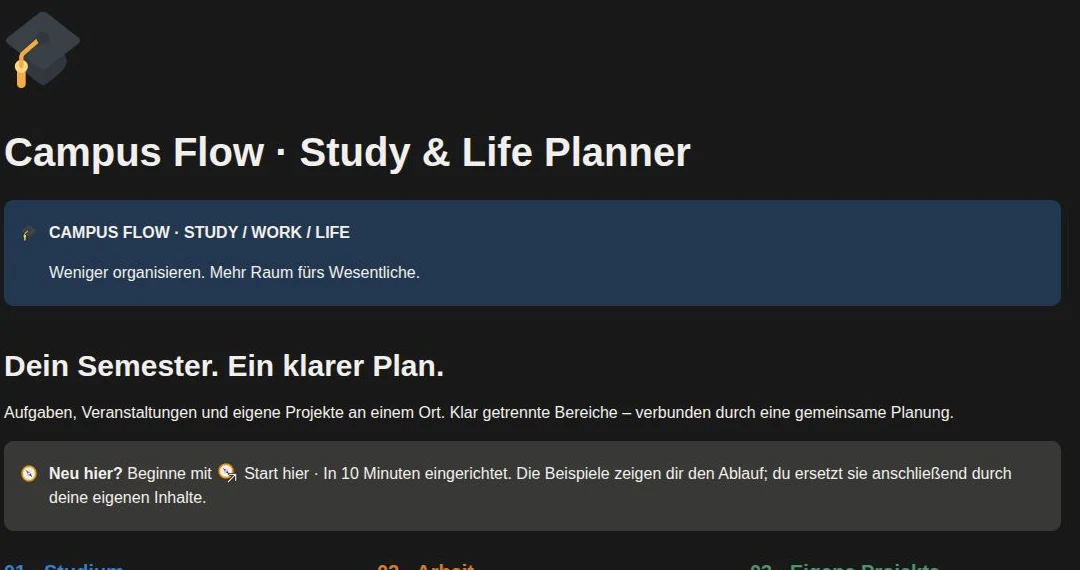
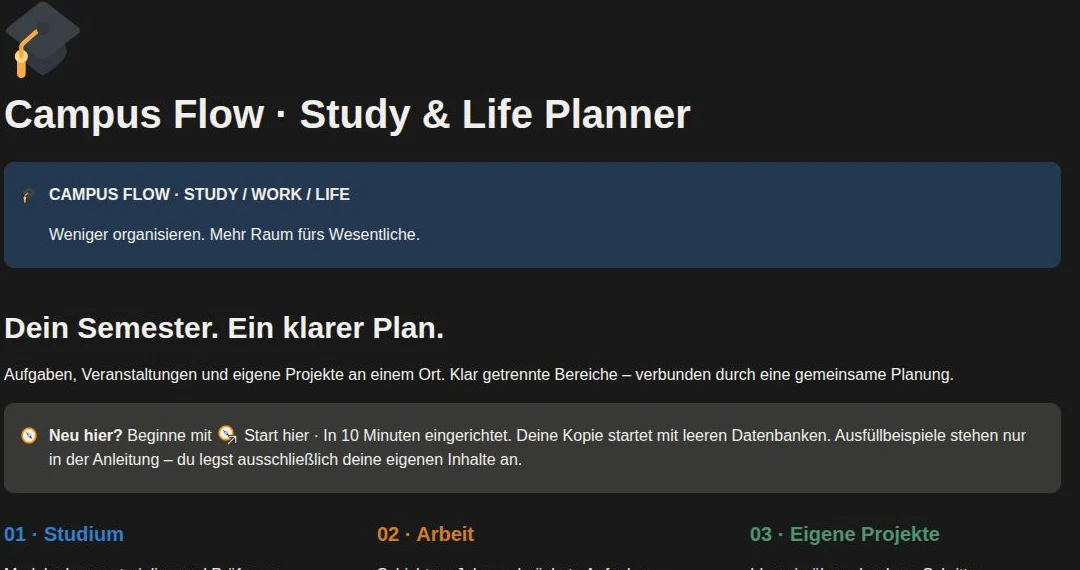
Start Campus Flow with empty databases and guided examples

diff --git a/campus-flow.html b/campus-flow.html
@@ -49,11 +49,11 @@
             <h1>Dein Semester.<br><em>Wieder im Blick.</em></h1>
             <p class="campus-intro">Module, Aufgaben, Termine und eigene Projekte. Ein klarer Ort für alles, was in deinem Studienalltag zusammenkommt.</p>
             <div class="hero-cta"><a href="#loslegen" class="btn btn-primary">Kostenlos starten <span class="arrow">↓</span></a><a href="#geschichte" class="btn btn-ghost">Die Geschichte dahinter ↓</a></div>
-            <p class="campus-fine">Deutsch · Für deinen Notion-Workspace · Mit Beispielen &amp; Startguide</p>
+            <p class="campus-fine">Deutsch · Für deinen Notion-Workspace · Leerer Start · Mit Ausfüllhilfe</p>
           </div>
           <div class="campus-hero-visual">
             <div class="campus-stamp" aria-hidden="true"><span>CF</span><small>Ein klarer<br>nächster Schritt.</small></div>
-            <figure class="campus-window"><div class="campus-window-bar"><span aria-hidden="true">● ● ●</span><span>Campus Flow / Notion</span></div><img src="img/products/campus-flow/dashboard.webp" width="1080" height="570" alt="Originalansicht der Campus-Flow-Startseite mit Einführung und Bereichen für Studium, Arbeit und Projekte" fetchpriority="high" decoding="async"><figcaption>Dein Ausgangspunkt · Originalansicht der bereinigten Demo</figcaption></figure>
+            <figure class="campus-window"><div class="campus-window-bar"><span aria-hidden="true">● ● ●</span><span>Campus Flow / Notion</span></div><img src="img/products/campus-flow/dashboard.webp" width="1080" height="570" alt="Originalansicht der Campus-Flow-Startseite mit Einführung und Bereichen für Studium, Arbeit und Projekte" fetchpriority="high" decoding="async"><figcaption>Dein Ausgangspunkt · Leere Vorlage mit Anleitung</figcaption></figure>
             <div class="campus-float-note" aria-hidden="true"><span class="campus-check">✓</span><span>Weniger suchen.<br><strong>Einfach anfangen.</strong></span></div>
           </div>
         </div>
@@ -77,7 +77,7 @@
             <div class="campus-flow-final"><div class="campus-final-brand"><span>CF</span><div><strong>Campus Flow</strong><small>Dein Semester. Ein klarer Plan.</small></div></div><img src="img/products/campus-flow/tasks.webp" width="1080" height="490" alt="" loading="lazy" decoding="async"><div class="campus-final-bottom"><span>Studium</span><span>Arbeit</span><span>Eigene Projekte</span></div></div>
             <div class="campus-board-footer"><span class="campus-board-status">Lose Enden</span><span>Eine Idee nimmt Form an.</span></div>
           </div>
-          <p class="campus-visual-note">Scroll-Illustration mit typischen Planungssituationen.</p>
+          <p class="campus-visual-note">Scroll-Illustration mit fiktiven Beispielen. Deine Kopie startet leer.</p>
         </div>
         <div class="campus-chapters">
           <article class="campus-chapter" id="anfang" data-chapter="0"><p class="campus-chapter-number">01 / Der Anfang</p><h3>Zu viele<br><em>lose Enden.</em></h3><p>Vorlesungsnotizen hier. Eine Abgabe dort. Dazwischen Arbeit und eigene Ideen. Im Kopf blieb immer noch eine Liste offen.</p><p>Ich wollte auf einen Blick sehen, was als Nächstes zählt.</p><span class="campus-chapter-thought">Was brauche ich heute wirklich?</span></article>
@@ -99,21 +99,22 @@
     </div></section>
 
     <section class="section campus-preview-section" id="einblicke" aria-labelledby="preview-title"><div class="container">
-      <div class="campus-section-intro"><p class="section-tag">Einblicke in Campus Flow</p><h2 id="preview-title">So sieht<br><em>der Überblick aus.</em></h2><p>Originalansichten aus der bereinigten Demo. Alle gezeigten Inhalte sind fiktive Beispiele.</p></div>
+      <div class="campus-section-intro"><p class="section-tag">Einblicke in Campus Flow</p><h2 id="preview-title">So sieht<br><em>der Überblick aus.</em></h2><p>Die Startseite zeigt die leere Vorlage. Die ausgefüllten Aufgaben und Module zeigen, wie dein System später aussehen kann – mit fiktiven Beispielen. Deine Kopie startet ohne Einträge.</p></div>
       <div class="campus-preview-tabs" role="tablist" aria-label="Template-Vorschau" hidden><button type="button" role="tab" id="preview-tab-dashboard" aria-controls="preview-dashboard" aria-selected="true" tabindex="0">Startseite</button><button type="button" role="tab" id="preview-tab-tasks" aria-controls="preview-tasks" aria-selected="false" tabindex="-1">Aufgaben</button><button type="button" role="tab" id="preview-tab-modules" aria-controls="preview-modules" aria-selected="false" tabindex="-1">Module</button></div>
       <figure class="campus-preview-panel" id="preview-dashboard" role="tabpanel" aria-labelledby="preview-tab-dashboard" tabindex="0"><img src="img/products/campus-flow/dashboard.webp" width="1080" height="570" alt="Campus-Flow-Startseite mit Einführung und Navigation für Studium, Arbeit und eigene Projekte" loading="lazy" decoding="async"><figcaption><span>01 / Dein Ausgangspunkt</span><a href="img/products/campus-flow/dashboard.webp" target="_blank" rel="noopener">Bild vergrößern ↗</a></figcaption></figure>
-      <figure class="campus-preview-panel" id="preview-tasks" role="tabpanel" aria-labelledby="preview-tab-tasks" tabindex="0"><img src="img/products/campus-flow/tasks.webp" width="1080" height="490" alt="Aufgabenübersicht der Demo mit Status, Priorität, Fälligkeit und Bereich" loading="lazy" decoding="async"><figcaption><span>02 / Ein klarer nächster Schritt</span><a href="img/products/campus-flow/tasks.webp" target="_blank" rel="noopener">Bild vergrößern ↗</a></figcaption></figure>
-      <figure class="campus-preview-panel" id="preview-modules" role="tabpanel" aria-labelledby="preview-tab-modules" tabindex="0"><img src="img/products/campus-flow/modules.webp" width="1080" height="400" alt="Modulgalerie der Demo mit wissenschaftlichem Arbeiten, Mathematik, Programmierung und UX Design" loading="lazy" decoding="async"><figcaption><span>03 / Dein Studium an einem Ort</span><a href="img/products/campus-flow/modules.webp" target="_blank" rel="noopener">Bild vergrößern ↗</a></figcaption></figure>
+      <figure class="campus-preview-panel" id="preview-tasks" role="tabpanel" aria-labelledby="preview-tab-tasks" tabindex="0"><img src="img/products/campus-flow/tasks.webp" width="1080" height="490" alt="Aufgabenübersicht der Demo mit Status, Priorität, Fälligkeit und Bereich" loading="lazy" decoding="async"><figcaption><span>02 / Aufgaben · Ausgefülltes Beispiel</span><a href="img/products/campus-flow/tasks.webp" target="_blank" rel="noopener">Bild vergrößern ↗</a></figcaption></figure>
+      <figure class="campus-preview-panel" id="preview-modules" role="tabpanel" aria-labelledby="preview-tab-modules" tabindex="0"><img src="img/products/campus-flow/modules.webp" width="1080" height="400" alt="Modulgalerie der Demo mit wissenschaftlichem Arbeiten, Mathematik, Programmierung und UX Design" loading="lazy" decoding="async"><figcaption><span>03 / Module · Ausgefülltes Beispiel</span><a href="img/products/campus-flow/modules.webp" target="_blank" rel="noopener">Bild vergrößern ↗</a></figcaption></figure>
     </div></section>
 
-    <section class="section campus-getting-started"><div class="container"><div class="campus-section-intro"><p class="section-tag">Dein Einstieg</p><h2>Aus der Vorlage<br><em>wird dein System.</em></h2></div><ol class="campus-start-steps"><li><span>01</span><h3>Deine Kopie anlegen</h3><p>Öffne die kostenlose Vorlage und wähle in Notion „Duplizieren“. Übernimm die gesamte Startseite mit allen Unterseiten in deinen Workspace.</p></li><li><span>02</span><h3>Deinen Alltag eintragen</h3><p>Ersetze die Beispiele durch deine Module, Jobs und Vorhaben. Die Startanleitung führt dich durch die Einrichtung.</p></li><li><span>03</span><h3>Deinen Rhythmus finden</h3><p>Nutze die Tages- und Wochenansichten. Ein kurzer Wochenreview schafft Platz für das, was als Nächstes zählt.</p></li></ol></div></section>
+    <section class="section campus-getting-started"><div class="container"><div class="campus-section-intro"><p class="section-tag">Dein Einstieg</p><h2>Aus der Vorlage<br><em>wird dein System.</em></h2></div><ol class="campus-start-steps"><li><span>01</span><h3>Deine Kopie anlegen</h3><p>Öffne die kostenlose Vorlage und wähle in Notion „Duplizieren“. Übernimm die gesamte Startseite mit allen Unterseiten in deinen Workspace.</p></li><li><span>02</span><h3>Deinen Alltag eintragen</h3><p>Starte mit leeren Datenbanken und lege deine eigenen Module, Aufgaben und Termine an. Ausfüllbeispiele in der Anleitung zeigen dir, wie – ohne zusätzliche Beispiel-Einträge in deiner Planung.</p></li><li><span>03</span><h3>Deinen Rhythmus finden</h3><p>Nutze die Tages- und Wochenansichten. Ein kurzer Wochenreview schafft Platz für das, was als Nächstes zählt.</p></li></ol></div></section>
 
     <section class="section campus-faq" aria-labelledby="faq-title"><div class="container"><div class="campus-section-intro"><p class="section-tag">Gut zu wissen</p><h2 id="faq-title">Ein paar klare<br><em>Antworten.</em></h2></div>
       <details><summary>Ist Campus Flow kostenlos?</summary><p>Ja. Campus Flow ist zunächst kostenlos verfügbar. Öffne die öffentliche Vorlage über den Button und dupliziere die gesamte Startseite mit ihren Unterseiten in deinen eigenen Notion-Workspace.</p></details>
-      <details><summary>Was brauche ich dafür?</summary><p>Ein eigenes Notion-Konto. Campus Flow ist eine Notion-Vorlage mit nativen Seiten und Datenbanken. Die Demo enthält eine Einrichtungsanleitung und fiktive Beispiele, die du durch deine eigenen Inhalte ersetzt.</p></details>
+      <details><summary>Was brauche ich dafür?</summary><p>Ein eigenes Notion-Konto. Campus Flow ist eine Notion-Vorlage mit nativen Seiten und Datenbanken. Die Vorlage enthält leere Datenbanken und eine Einrichtungsanleitung. Beispiele stehen dort als Erklärungstext und werden nicht als Aufgaben, Module oder Termine angelegt.</p></details>
       <details><summary>Kann ich Notion Calendar verwenden?</summary><p>Die Datumsfelder und Kalenderansichten sind vorbereitet. Du verbindest deinen eigenen Notion-Workspace selbst mit Notion Calendar. Das Duplizieren verbindet keine Konten und richtet keine automatische Google- oder Outlook-Synchronisierung ein.</p></details>
       <details><summary>Wiederholen sich Veranstaltungen automatisch?</summary><p>Die Felder „Rhythmus“ und „Serienende“ sind Planungshinweise. Sie erzeugen keine automatische Kalender-Serie. Die Anleitung erklärt den Unterschied zwischen einzelnen Datenbankterminen und wiederkehrenden Kalendereinträgen.</p></details>
-      <details><summary>Sind echte Uni-Daten enthalten?</summary><p>Die Produktvorschau zeigt eine separate Demo mit fiktiven Modulen, Aufgaben, Projekten und Terminen. Persönliche Studienunterlagen, echte Kalenderfreigaben und meine privaten Automationen gehören nicht zur Vorlage.</p></details>
+      <details><summary>Starte ich wirklich bei null?</summary><p>Ja. Die vier Datenbanken für Module, Aufgaben, Termine und Projekte enthalten keine Einträge. Felder, Ansichten und Verknüpfungen sind vorbereitet. Die Anleitung erklärt mit Textbeispielen, wie du dein Semester, Module, To-dos und Abgaben selbst einträgst.</p></details>
+      <details><summary>Sind echte Uni-Daten enthalten?</summary><p>Nein. Deine Kopie enthält keine persönlichen Uni-Einträge. Die ausgefüllten Vorschaubilder zeigen ausschließlich fiktive Beispiele. Persönliche Studienunterlagen, echte Kalenderfreigaben und meine privaten Automationen gehören nicht zur Vorlage.</p></details>
     </div></section>
 
     <section class="campus-final-cta" id="loslegen"><div class="container"><div class="campus-cta-box"><div><p class="section-tag">Campus Flow · kostenloses Notion-Template</p><h2>Mehr Raum<br><em>für dein Semester.</em></h2><p>Ein klarer Start für Studium, Nebenjob und eigene Projekte.</p></div><div class="campus-cta-actions"><a href="https://fortunate-lifter-b49.notion.site/Campus-Flow-Study-Life-Planner-c78effff73d18260a9be01594fbf0cbe" target="_blank" rel="noopener" class="btn btn-primary" data-campus-access>Kostenlos in Notion öffnen ↗</a><p>Vorlage öffnen und in deinen Workspace duplizieren.<br>Ein eigenes Notion-Konto wird benötigt.</p><a class="proj-link" href="produkte.html">Alle Produkte ansehen →</a></div></div></div></section>

diff --git a/produkte.html b/produkte.html
@@ -78,7 +78,7 @@
     </div>
   </section>
 
-  <section class="section product-section" id="campus-flow" aria-labelledby="campus-product-title"><div class="container product-feature"><div><div class="section-tag">Campus Flow · kostenloses Notion-Template</div><h2 class="section-title" id="campus-product-title">Dein Semester.<br><em>Wieder im Blick.</em></h2><p class="section-lead">Module, Aufgaben, Termine und eigene Projekte in einer klaren Notion-Vorlage. Entstanden aus meinem Studienalltag – für deinen nächsten Schritt.</p><div class="tag-row"><span class="tag">Studium &amp; Arbeit</span><span class="tag">Klare Wochenplanung</span><span class="tag">Mit Startguide</span></div><div class="hero-cta"><a href="https://fortunate-lifter-b49.notion.site/Campus-Flow-Study-Life-Planner-c78effff73d18260a9be01594fbf0cbe" target="_blank" rel="noopener" class="btn btn-primary">Kostenlos in Notion öffnen ↗</a><a href="campus-flow.html" class="btn btn-ghost">Mehr erfahren →</a></div><p class="product-note">Kostenloses Template mit Beispieldaten. Entdecke die Geschichte dahinter und die Vorschau auf der Produktseite.</p></div><figure class="product-preview"><img src="img/products/campus-flow/dashboard.webp" width="1080" height="570" alt="Originalansicht des Campus-Flow-Notion-Templates mit fiktiven Beispieldaten" loading="lazy" decoding="async"><figcaption>Campus Flow · Originalansicht der bereinigten Demo</figcaption></figure></div></section>
+  <section class="section product-section" id="campus-flow" aria-labelledby="campus-product-title"><div class="container product-feature"><div><div class="section-tag">Campus Flow · kostenloses Notion-Template</div><h2 class="section-title" id="campus-product-title">Dein Semester.<br><em>Wieder im Blick.</em></h2><p class="section-lead">Module, Aufgaben, Termine und eigene Projekte in einer klaren Notion-Vorlage. Entstanden aus meinem Studienalltag – für deinen nächsten Schritt.</p><div class="tag-row"><span class="tag">Studium &amp; Arbeit</span><span class="tag">Klare Wochenplanung</span><span class="tag">Mit Startguide</span></div><div class="hero-cta"><a href="https://fortunate-lifter-b49.notion.site/Campus-Flow-Study-Life-Planner-c78effff73d18260a9be01594fbf0cbe" target="_blank" rel="noopener" class="btn btn-primary">Kostenlos in Notion öffnen ↗</a><a href="campus-flow.html" class="btn btn-ghost">Mehr erfahren →</a></div><p class="product-note">Deine Kopie startet leer. Eine Anleitung mit Ausfüllbeispielen hilft dir beim Einrichten. Entdecke die Geschichte und Vorschau auf der Produktseite.</p></div><figure class="product-preview"><img src="img/products/campus-flow/dashboard.webp" width="1080" height="570" alt="Campus-Flow-Startseite mit Hinweis auf leere Datenbanken und Ausfüllhilfen" loading="lazy" decoding="async"><figcaption>Campus Flow · Leere Vorlage mit Anleitung</figcaption></figure></div></section>
 
   <!-- FOOTER -->
   <footer class="footer">

diff --git a/README.md b/README.md
@@ -46,4 +46,4 @@ Chrome Web Store: Version 1.0.0 am 15. Oktober 2026 öffentlich veröffentlicht 
 
 `campus-flow.html` stellt das kostenlose Notion-Template als eigenständige Produktgeschichte vor. `css/campus-flow.css` und `js/campus-flow.js` sind auf diese Seite begrenzt. Die Scroll-Illustration ordnet auf ausreichend großen Bildschirmen vier Karten und blendet eine echte Vorschau ein. Auf kleinen Bildschirmen, bei reduced motion und ohne JavaScript bleiben die Geschichte und Screenshots normal lesbar. Es gibt keine Scroll-Übernahme. Die Preview-Tabs unterstützen Tastaturbedienung.
 
-Die Bilder unter `img/products/campus-flow/` stammen ausschließlich aus der bereinigten Demo im Chat „Notion-UNI-Template optimieren“. Keine privaten Seiten-URLs, Kontodetails oder persönlichen Studienunterlagen werden veröffentlicht. Die bereinigte Demo wurde am 17. Oktober 2026 mit aktivierter Duplizierbarkeit öffentlich freigegeben: https://fortunate-lifter-b49.notion.site/Campus-Flow-Study-Life-Planner-c78effff73d18260a9be01594fbf0cbe. Die Produktübersicht und Detailseite führen direkt dorthin. Kein Zahlungsprozess und keine behauptete automatische Kalender-Synchronisation. Eine vollständige Duplizierung in einen fremden Workspace ist weiterhin separat zu prüfen.
+Die Bilder unter `img/products/campus-flow/` stammen ausschließlich aus der separaten öffentlichen Vorlage. `dashboard.webp` zeigt den leeren Start seit v1.1; `tasks.webp` und `modules.webp` bleiben ausdrücklich gekennzeichnete, ausgefüllte Beispiele mit fiktiven Inhalten. Keine privaten Seiten-URLs, Kontodetails oder persönlichen Studienunterlagen werden veröffentlicht. Seit dem 18. Oktober 2026 enthalten die vier Original-Datenbanken keine Einträge mehr (0 Module, 0 Aufgaben, 0 Termine, 0 Projekte). Ausfüllbeispiele stehen ausschließlich als Anleitungstext unter den jeweiligen Bereichen und im Startguide. Die am 17. Oktober 2026 mit aktivierter Duplizierbarkeit veröffentlichte URL bleibt bestehen: https://fortunate-lifter-b49.notion.site/Campus-Flow-Study-Life-Planner-c78effff73d18260a9be01594fbf0cbe. Die Produktübersicht und Detailseite führen direkt dorthin. Kein Zahlungsprozess und keine behauptete automatische Kalender-Synchronisation. Eine vollständige Duplizierung in einen fremden Workspace ist weiterhin separat zu prüfen.
